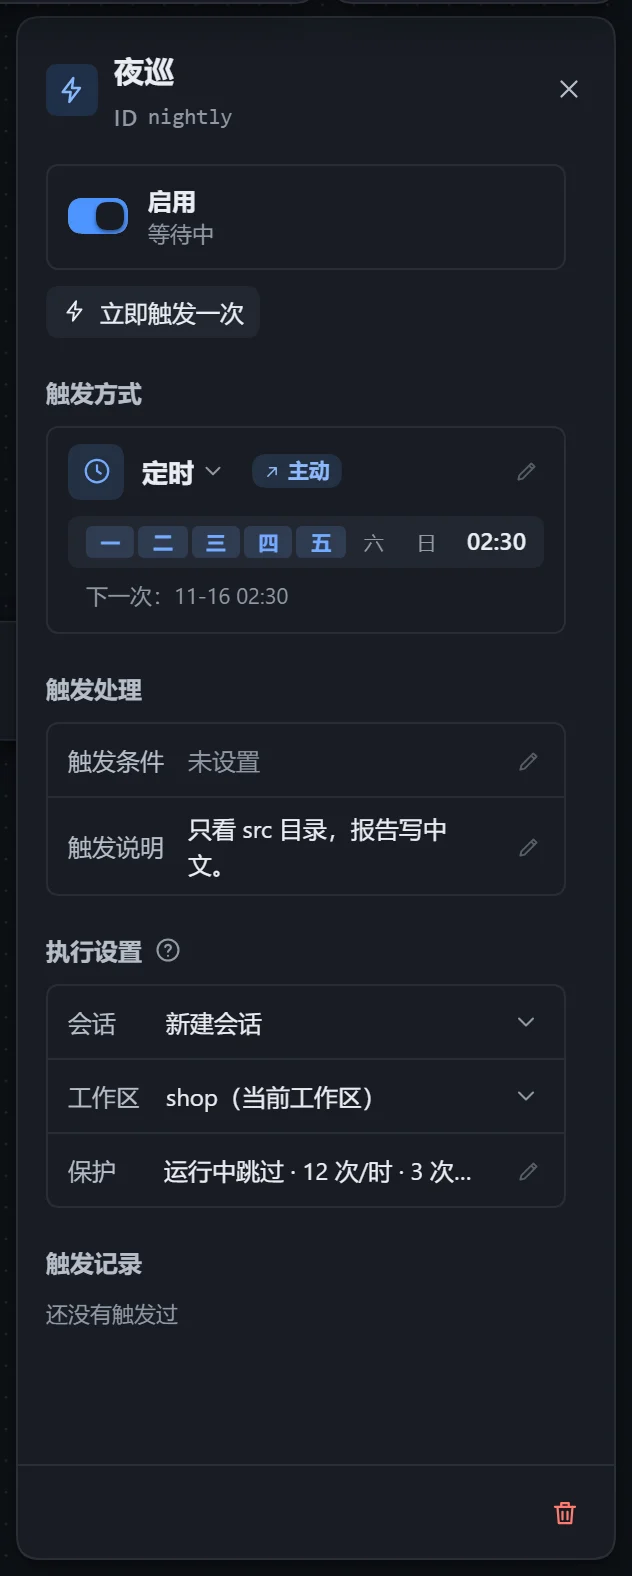
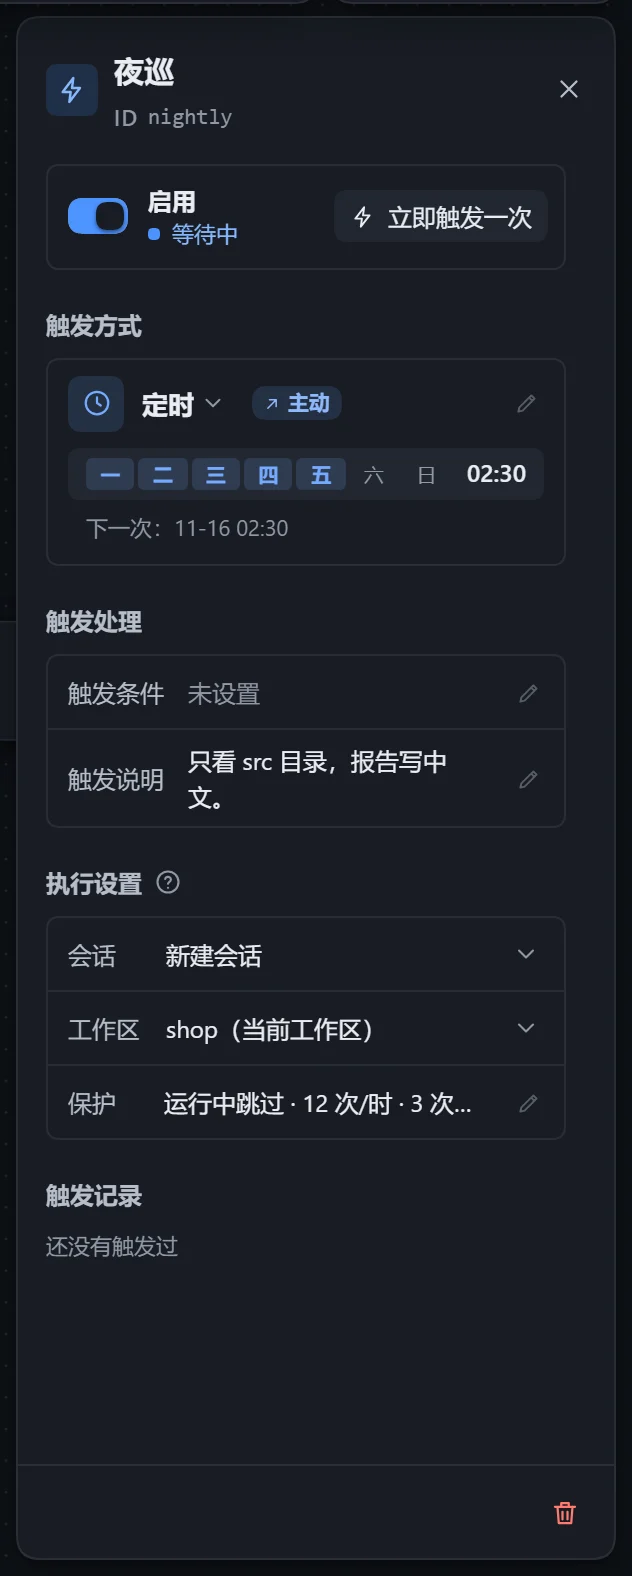
feat(trigger): 面板顶部的开关、状态和「立即触发一次」合成一个框
- 一个框里左边是开关和状态，右边是「立即触发一次」；开关的可点范围、悬停底色和聚焦描边铺满整个框，按钮浮在上面
- 状态行带色点，和画布卡片、工作流中心「触发」页同一套颜色（stateTone）
- 刚触发的那句话（正在发 / 已发进会话）几秒内写在状态行上，没发出去的原因写在框下面、留到下一次
- FireNow 拆出 useFireNow：按钮和结果分开给，结果写在哪由用的地方定；「触发」页照旧是按钮右边跟着结果
- cdp-triggers 跟着改（100/100）；触发相关的文档截图中英重拍

悬停时整框变色的样子没有截图验证。

diff --git a/src/client/ui/trigger/TriggerStatus.tsx b/src/client/ui/trigger/TriggerStatus.tsx
@@ -1,7 +1,8 @@
 /**
  * dsh-workflow-lite — 触发卡片面板里「现在怎么样」的两块，只在模板视图里出现（实例里的卡片是快照，没有现场）：
  *
- * - {@link TriggerStatus}（面板最上面）：开关与状态、出了什么问题、「立即触发一次」。
+ * - {@link TriggerStatus}（面板最上面）：一个框里左边是开关和状态（色点和画布卡片、「触发」页同一套），
+ *   右边是「立即触发一次」；刚发出去的那句话几秒内写在状态行上，没发出去的原因和别的问题写在框下面。
  *   要在本机跑命令、还没确认过的卡片，打开前在开关旁边浮出确认卡，列出命令和工作区；
  * - {@link TriggerLog}（面板最下面）：最近几次触发记录，在自己的框里滚（最近的输出在「触发方式」对话框里）。
  *
@@ -12,7 +13,7 @@ import { commandOf } from '../../../shared/trigger.ts'
 import type { TriggerData } from '../../../shared/types.ts'
 import { firesSignal, useFires } from '../../app/useFires.ts'
 import type { T } from '../../i18n.ts'
-import { stateText } from '../../model/triggerText.ts'
+import { stateText, stateTone } from '../../model/triggerText.ts'
 import { cx } from '../kit/cx.ts'
 import { Icon } from '../kit/Icon.tsx'
 import ui from '../kit/ui.module.css'
@@ -20,7 +21,8 @@ import { SwitchTrack } from '../motion/marks.tsx'
 import ins from '../panel/panel.module.css'
 import { useApproveConfirm } from './ApproveConfirm.tsx'
 import { FireList } from './FireList.tsx'
-import { FireNow } from './FireNow.tsx'
+import { useFireNow } from './FireNow.tsx'
+import tone from './stateTone.module.css'
 import css from './trigger.module.css'
 import type { TriggerEnv } from './triggerEnv.ts'
 
@@ -40,6 +42,12 @@ export function TriggerStatus(props: {
   const state = view?.state ?? 'off'
   const command = commandOf(data.source)
   const approve = useApproveConfirm<HTMLButtonElement>()
+  const fireNow = useFireNow({
+    t,
+    testId: 'wl-trigger',
+    fire: (info) => env.triggers.fire(node, info),
+  })
+  const fired = fireNow.result
 
   /** 开关：要跑命令、还没确认的，在开关旁边问一句；别的直接开关。 */
   const onSwitch = (): void => {
@@ -63,26 +71,38 @@ export function TriggerStatus(props: {
 
   return (
     <section className={ins.field} data-testid="wl-trigger-status" data-state={state}>
-      <button
-        ref={approve.anchorRef}
-        type="button"
-        role="switch"
-        aria-checked={on}
-        className={ins.required}
-        data-testid="wl-trigger-enable"
-        onClick={onSwitch}
-      >
-        <SwitchTrack on={on} />
-        <span className={ins.requiredText}>
-          <span className={ins.requiredTitle}>{t('trigger.switch')}</span>
-          <span className={ins.requiredDesc} data-testid="wl-trigger-state-text">
-            {/* 定时规则下面已经写着下一次，这里不再说。 */}
-            {stateText(t, view, data.source.kind, Date.now(), {
-              next: data.source.kind !== 'schedule',
-            })}
+      <div className={css.statusCard}>
+        <button
+          ref={approve.anchorRef}
+          type="button"
+          role="switch"
+          aria-checked={on}
+          className={css.statusSwitch}
+          data-testid="wl-trigger-enable"
+          onClick={onSwitch}
+        >
+          <SwitchTrack on={on} />
+          <span className={ins.requiredText}>
+            <span className={ins.requiredTitle}>{t('trigger.switch')}</span>
+            <span
+              className={cx(css.statusLine, tone.tone)}
+              data-tone={stateTone(state, data.source.kind)}
+            >
+              <span className={tone.dot} aria-hidden="true" />
+              {/* 一直挂着，只换字：刚触发的那句话（正在发 / 已发进会话）先占这一行，过后回到状态。 */}
+              <span className={css.statusText} data-testid="wl-trigger-state-text">
+                {fired !== null && fired.tone !== 'bad'
+                  ? fired.text
+                  : // 定时规则下面已经写着下一次，这里不再说。
+                    stateText(t, view, data.source.kind, Date.now(), {
+                      next: data.source.kind !== 'schedule',
+                    })}
+              </span>
+            </span>
           </span>
-        </span>
-      </button>
+        </button>
+        <span className={css.statusAction}>{fireNow.button}</span>
+      </div>
       {command !== undefined &&
         approve.render({
           t,
@@ -100,6 +120,10 @@ export function TriggerStatus(props: {
       >
         {problem}
       </p>
+      {/* 「立即触发一次」没发出去的原因：留到下一次。 */}
+      <p className={ins.error} data-testid="wl-trigger-fire-result" hidden={fired?.tone !== 'bad'}>
+        {fired?.tone === 'bad' ? fired.text : ''}
+      </p>
       {state === 'confirm' && (
         <button
           type="button"
@@ -110,7 +134,6 @@ export function TriggerStatus(props: {
           {t('trigger.confirmAgain')}
         </button>
       )}
-      <FireNow t={t} testId="wl-trigger" fire={(info) => env.triggers.fire(node, info)} />
     </section>
   )
 }

diff --git a/src/client/ui/trigger/FireNow.tsx b/src/client/ui/trigger/FireNow.tsx
@@ -1,8 +1,12 @@
 /**
  * dsh-workflow-lite — 「立即触发一次」：点按钮在旁边浮出一张小卡，可以写一段这一次附带的背景信息，再点「触发」。
- * 结果写在按钮右边：发出去了几秒后自己消失；没发出去的一直留着，直到下一次。
+ * 结果是一句话：发出去了几秒后自己消失；没发出去的一直留着，直到下一次。
  *
- * 画布上的面板和工作流中心「触发」页共用。背景信息不常驻在面板里：它只在手动触发时用得上。
+ * - {@link useFireNow}：按钮（连同浮出的小卡）和结果分开给，结果写在哪由用的地方定
+ *   （画布面板写进开关那个框的状态行和下面的问题行）；
+ * - {@link FireNow}：按钮右边跟着结果（工作流中心「触发」页）。
+ *
+ * 背景信息不常驻在面板里：它只在手动触发时用得上。
  *
  * @module @xiaoso/dsh-workflow-lite/client/ui/trigger/FireNow
  */
@@ -23,13 +27,25 @@ const SENT_MS = 4000
 /** 发得慢时，过这么久才说「正在发」（快的时候看不见）。 */
 const SLOW_MS = 300
 
-export function FireNow(props: {
+/** 这一次的结果：`pending` 正在发（发得慢才有）、`ok` 发出去了（几秒后没有）、`bad` 没发出去。 */
+export interface FireNowResult {
+  tone: 'pending' | 'ok' | 'bad'
+  text: string
+}
+
+export interface FireNowProps {
   t: T
   /** 触发一次：回这次的记录；请求本身失败回一句原因。 */
   fire(info: string): Promise<FireRecord | string>
   /** `data-testid` 的前缀：按钮 `-fire`、输入框 `-info`、卡片里的按钮 `-fire-send`、结果 `-fire-result`。 */
   testId: string
-}): React.JSX.Element {
+}
+
+export function useFireNow(props: FireNowProps): {
+  /** 按钮和它浮出的小卡。 */
+  button: React.JSX.Element
+  result: FireNowResult | null
+} {
   const { t, testId } = props
   const float = useFloat<HTMLButtonElement>({
     openMs: 0,
@@ -97,8 +113,13 @@ export function FireNow(props: {
     setResult({ ok: false, text: t('trigger.fireFailed').replace('{reason}', record.reason ?? '') })
   }
 
-  return (
-    <div className={css.fireRow}>
+  const shown: FireNowResult | null = slow
+    ? { tone: 'pending', text: t('trigger.firing') }
+    : result === null
+      ? null
+      : { tone: result.ok ? 'ok' : 'bad', text: result.text }
+  const button = (
+    <>
       <button
         ref={anchorRef}
         type="button"
@@ -112,15 +133,6 @@ export function FireNow(props: {
         <Icon name="bolt" size={13} />
         {t('trigger.fireNow')}
       </button>
-      {/* 一直挂着，只换字。 */}
-      <span
-        className={css.fireResult}
-        data-ok={slow ? undefined : (result?.ok ?? undefined)}
-        data-pending={slow || undefined}
-        data-testid={`${testId}-fire-result`}
-      >
-        {slow ? t('trigger.firing') : (result?.text ?? '')}
-      </span>
       {float.render({
         className: ui.confirmPop,
         role: 'dialog',
@@ -167,6 +179,25 @@ export function FireNow(props: {
           </div>
         ),
       })}
+    </>
+  )
+  return { button, result: shown }
+}
+
+export function FireNow(props: FireNowProps): React.JSX.Element {
+  const { button, result } = useFireNow(props)
+  return (
+    <div className={css.fireRow}>
+      {button}
+      {/* 一直挂着，只换字。 */}
+      <span
+        className={css.fireResult}
+        data-ok={result === null || result.tone === 'pending' ? undefined : result.tone === 'ok'}
+        data-pending={result?.tone === 'pending' || undefined}
+        data-testid={`${props.testId}-fire-result`}
+      >
+        {result?.text ?? ''}
+      </span>
     </div>
   )
 }

diff --git a/src/client/ui/trigger/trigger.module.css b/src/client/ui/trigger/trigger.module.css
@@ -265,6 +265,84 @@
   outline-offset: 1px;
 }
 
+/*
+ * 面板最上面的框：左边开关 + 状态，右边「立即触发一次」。
+ * 开关的可点范围和悬停底色铺满整个框（`.statusSwitch::before`），不在框里再分出一块；按钮浮在它上面。
+ */
+.statusCard {
+  position: relative;
+  display: flex;
+  gap: 8px;
+  align-items: center;
+  padding-right: 8px;
+  border: 1px solid var(--wl-line);
+  border-radius: var(--wl-r-control);
+  isolation: isolate;
+}
+
+.statusSwitch {
+  display: flex;
+  flex: 1 1 auto;
+  gap: 10px;
+  align-items: center;
+  min-width: 0;
+  padding: 8px 10px;
+  border: 0;
+  background: transparent;
+  color: var(--wl-text);
+  font: inherit;
+  text-align: left;
+  cursor: pointer;
+}
+
+.statusSwitch::before {
+  position: absolute;
+  inset: 0;
+  z-index: -1;
+  /* 框的圆角减去 1px 边线。 */
+  border-radius: calc(var(--wl-r-control) - 1px);
+  content: "";
+  transition: background-color 120ms linear;
+}
+
+.statusSwitch:hover::before {
+  background: var(--wl-hover);
+}
+
+.statusSwitch:focus-visible {
+  outline: none;
+}
+
+.statusSwitch:focus-visible::before {
+  outline: 2px solid var(--wl-accent);
+  outline-offset: 1px;
+}
+
+/* 「立即触发一次」：浮在铺满的开关上面，点它不算点开关。 */
+.statusAction {
+  position: relative;
+  z-index: 1;
+  display: flex;
+  flex: none;
+}
+
+/* 状态行：色点 + 一句话，放不下就省略（颜色见 stateTone.module.css）。 */
+.statusLine {
+  display: flex;
+  gap: 6px;
+  align-items: center;
+  min-width: 0;
+  color: var(--tone-text);
+  font-size: var(--wl-fs-micro);
+}
+
+.statusText {
+  min-width: 0;
+  overflow: hidden;
+  text-overflow: ellipsis;
+  white-space: nowrap;
+}
+
 /* 「立即触发一次」和它的结果。 */
 .fireRow {
   display: flex;
@@ -305,6 +383,7 @@
 }
 
 /* 瑞士：成组的列表只留上下线，圆钮成方的（圆角已经跟着 --wl-round 归零）。 */
+:global([data-look="swiss"]) .statusCard,
 :global([data-look="swiss"]) .endpoint,
 :global([data-look="swiss"]) .output {
   border-width: 1px 0;
